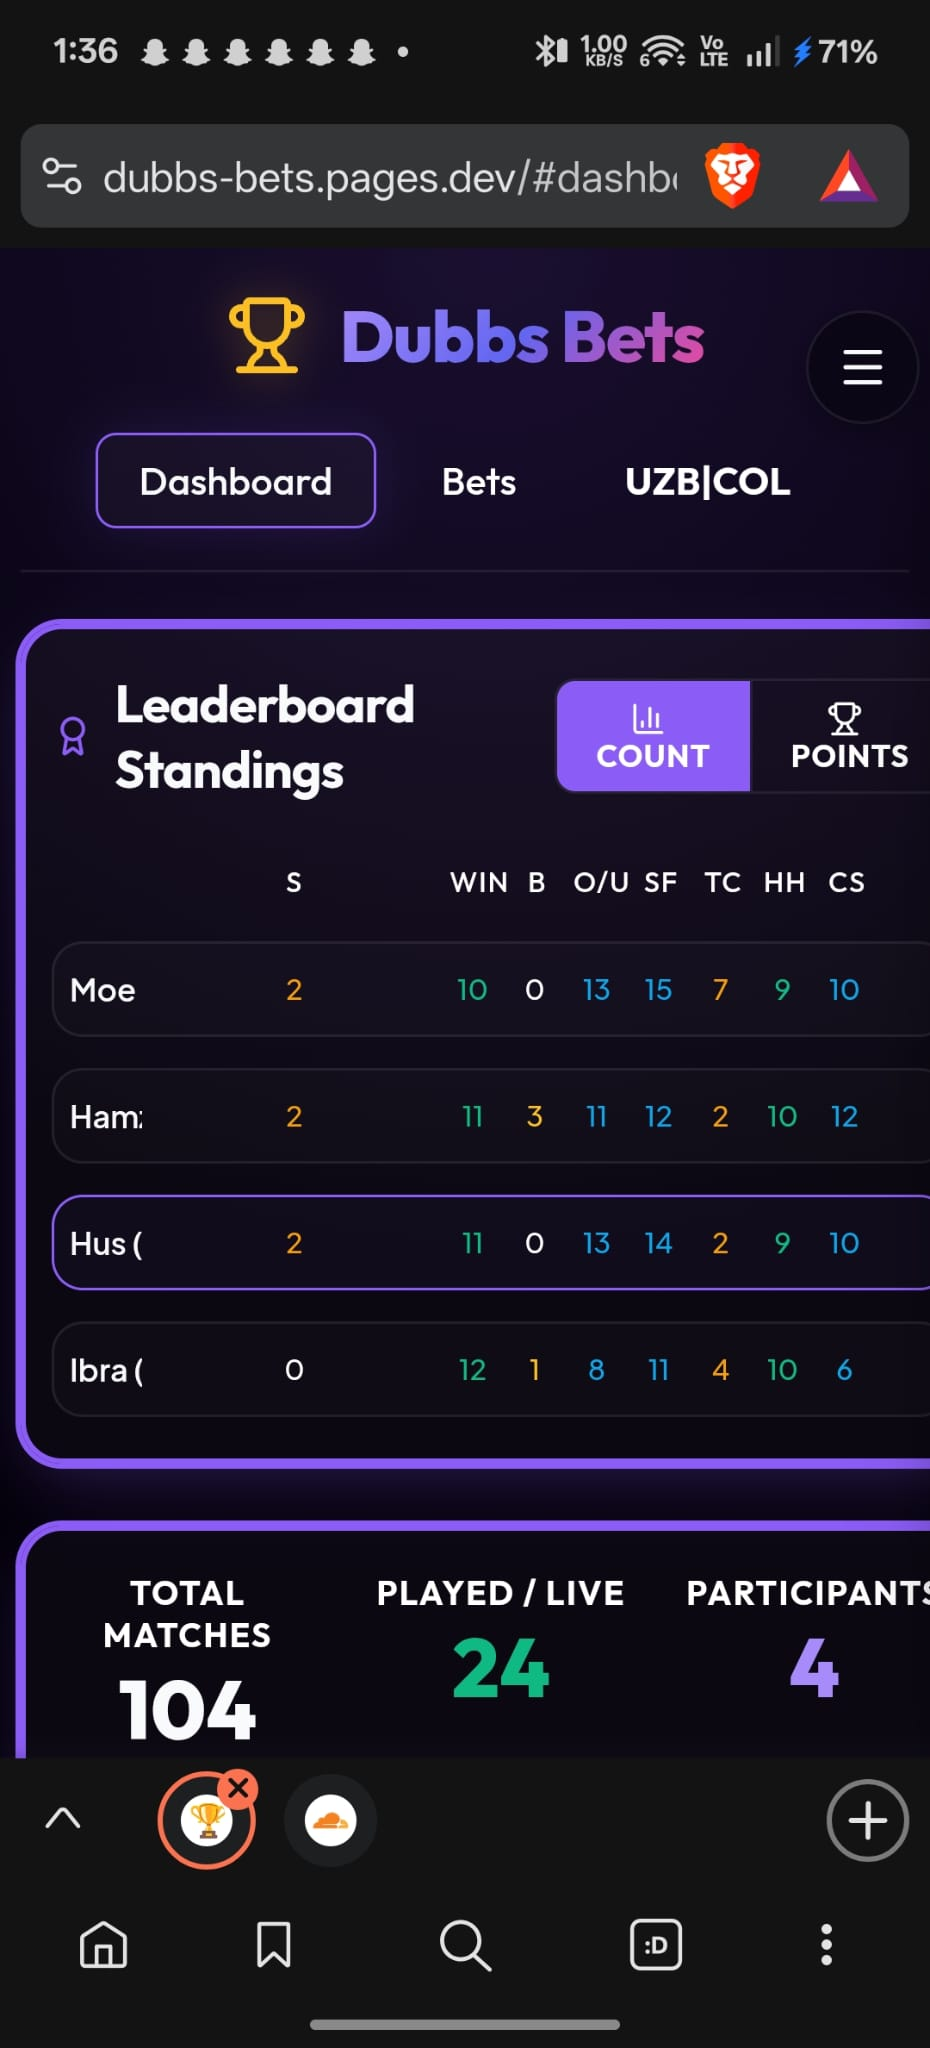
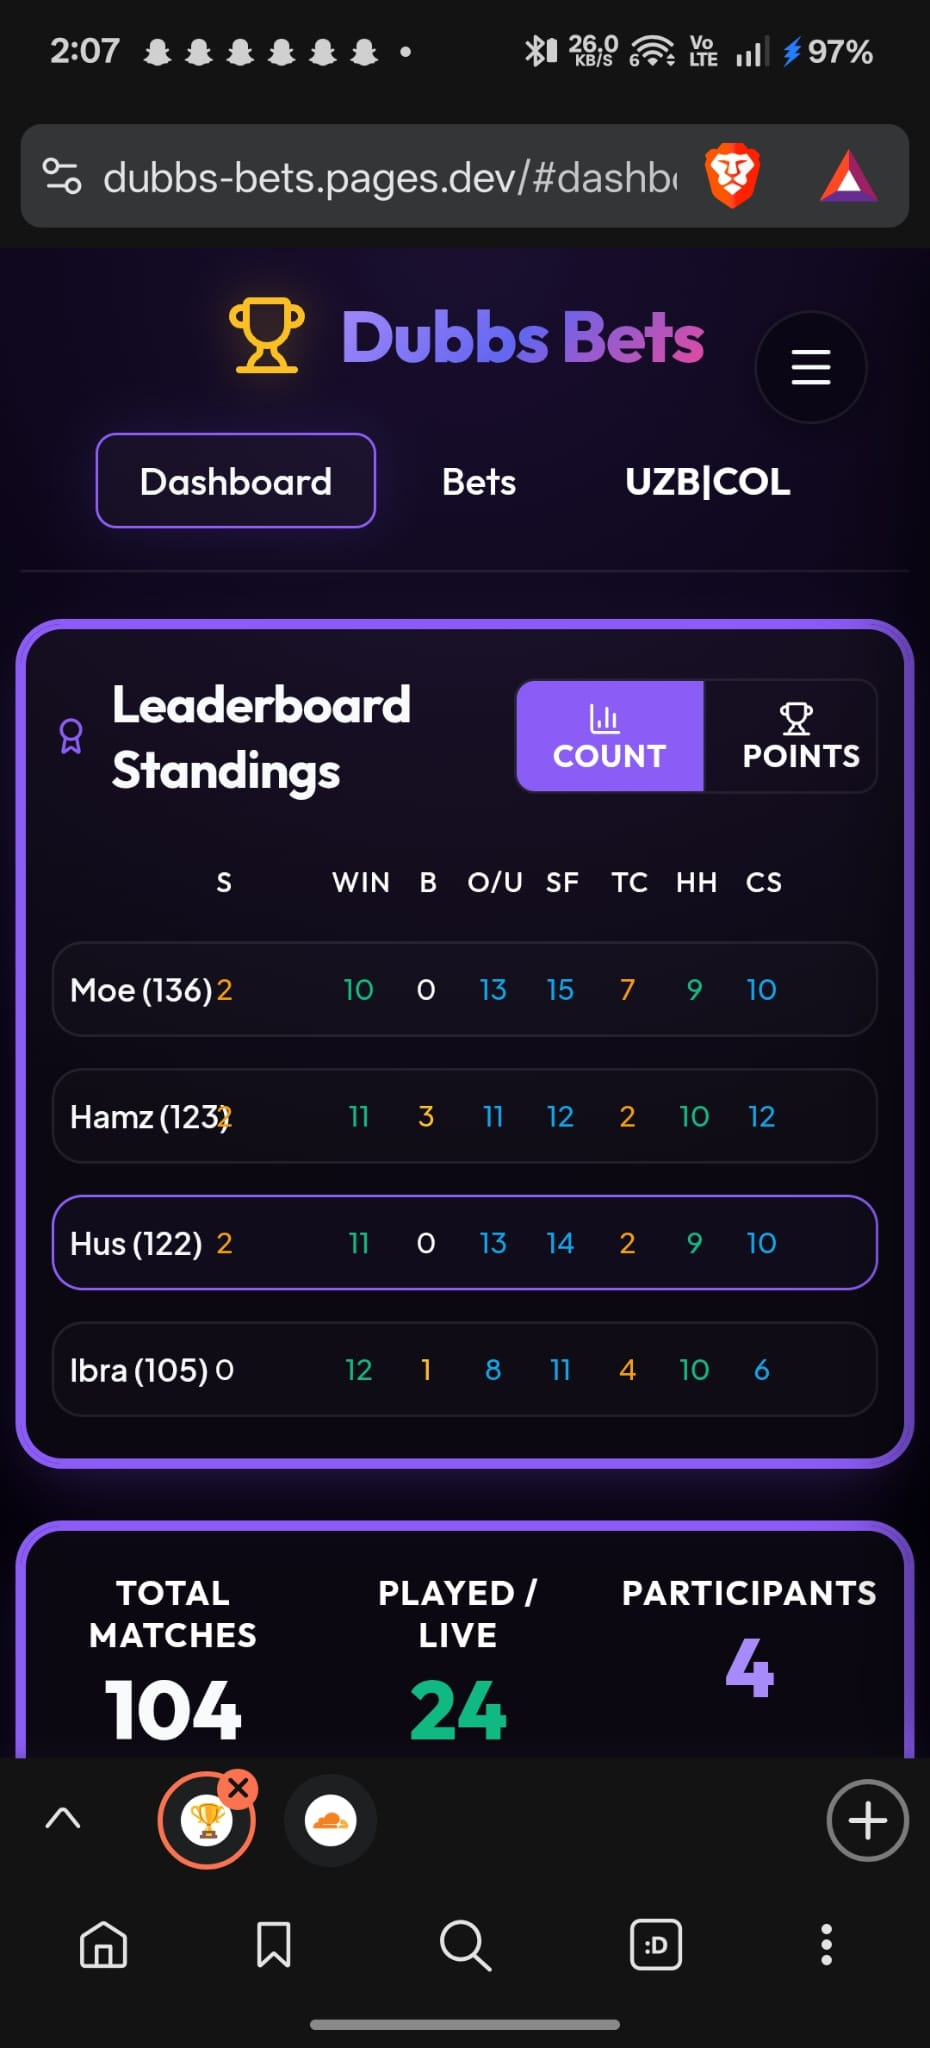
Fix: name column auto, stat columns minmax(24px, auto), 2px gap

diff --git a/src/index.css b/src/index.css
@@ -284,7 +284,7 @@ h1, h2, h3, h4, h5, h6 {
 
 .leaderboard-row {
   display: grid;
-  grid-template-columns: 48px minmax(min-content, 1fr) repeat(8, minmax(24px, auto));
+  grid-template-columns: 48px auto repeat(8, minmax(24px, auto));
   align-items: center;
   padding: 12px 16px;
   border-radius: 12px;
@@ -1478,11 +1478,11 @@ h1, h2, h3, h4, h5, h6 {
     padding: 4px 6px !important;
   }
   .show-all-cols .leaderboard-row {
-    grid-template-columns: 20px minmax(min-content, 1fr) repeat(8, minmax(24px, auto)) !important;
+    grid-template-columns: 20px auto repeat(8, minmax(24px, auto)) !important;
     column-gap: 2px !important;
   }
   .show-all-cols .leaderboard-row.header-row {
-    grid-template-columns: 20px minmax(min-content, 1fr) repeat(8, minmax(24px, auto)) !important;
+    grid-template-columns: 20px auto repeat(8, minmax(24px, auto)) !important;
     column-gap: 2px !important;
   }
   .stat-cell {
